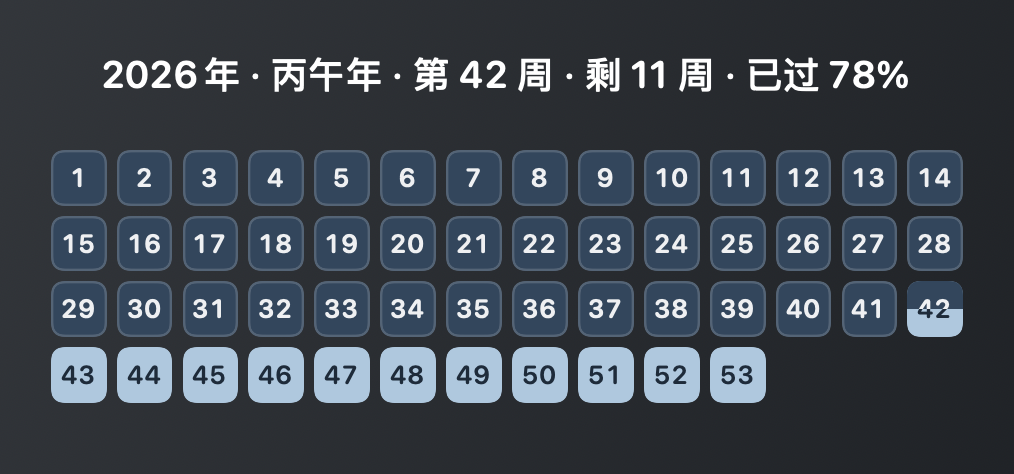
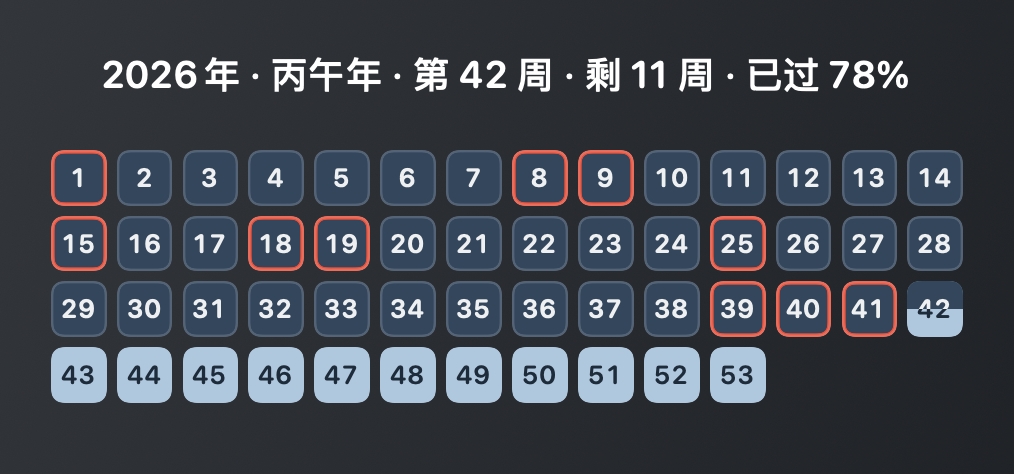
docs+fix(holiday): ring 标记默认生效；补 2027+ 数据管线文档与抓取节流修复
- 修复 HolidayUpdater 在已有打包数据时仍抓取的问题
- README 增加节假日规则、2026 周次、2027+ 数据来源/兜底/更新说明
- 预览图使用 ring 标记重新生成

diff --git a/README.md b/README.md
@@ -1,6 +1,7 @@
 # 年进度小组件 · YearProgress
 
-把「一年里的每一周」画成一格小方块，**每个方块中央显示第几周（阿拉伯数字）**：
+把「一年里的每一周」画成一格小方块，**每个方块中央显示第几周（阿拉伯数字）**，
+**含工作日法定节假日的周用红色描边标记**（周六日不算）：
 **已过的周是深色块（白字），未来的周是浅色块（深字），本周的深色已过部分从顶部向下增长**（数字跨分界线时自动双色）。
 顶部一行居中显示「2026年 · 丙午年 · 第 43 周 · 剩 10 周 · 已过 81%」，下面是方块网格。
 
@@ -78,6 +79,33 @@ make icon       # 重新生成 App 图标（Tools/make-icon.swift → .icns）
 | `--marker none\|dot\|bar\|triangle\|ring\|stripe` | 节假日标记样式（预览用；App 内默认不显示） |
 
 ---
+
+## 节假日标记
+
+- 数据：`Support/holidays/{year}.json`（与 holiday-cn 格式兼容，原始来源为国务院办公厅通知）
+- 规则：只看**周一~周五**的放假日；周六日不算；调休补班日（`isOffDay=false`）忽略
+- 2026：10 个周有工作日假期 —— `1 元旦 / 8、9 春节 / 15 清明 / 18、19 劳动 / 25 端午 / 39 中秋 / 40、41 国庆`
+- 样式：**ring（红色描边）**，面板与小组件共用
+- 兜底：没有官方数据时用 `Calendar(identifier: .chinese)` 计算春节（正月初一~初三）、端午、中秋，加固定节日与清明近似；只能保证"周"大致正确，**不含调休/延长假期**
+
+### 2027 及以后的数据处理
+
+```
+缓存 (~/Library/Application Support/YearProgress/holidays)
+  → App 内打包的 Support/holidays
+  → 内建 2026
+  → 法定兜底（Chinese 日历）
+```
+
+- 启动时若当前年/次年缺失数据，后台从 holiday-cn 拉取（12 小时节流），校验（年份/重复/数量/日期）通过后写缓存
+- 抓取成功后刷新小组件时间线，并尽力把 JSON 镜像到小组件的沙盒容器
+- 每年 11–12 月发布次年安排后，也可以手动更新并重新打包：
+
+```bash
+make holidays YEAR=2027     # 拉取官方安排到 Support/holidays/2027.json
+```
+
+- 2027 目前还没发布 → 会显示法定兜底（春节/端午/中秋日期正确，延长假期待官方通知）
 
 ## 系统小组件（WidgetKit 扩展）
 
